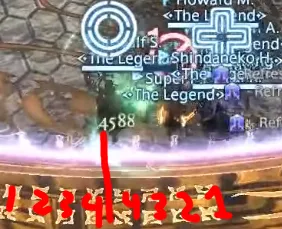
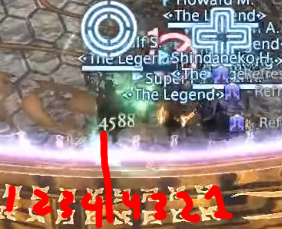
Update UWU images for Safari compatability

diff --git a/content/guides/uwu/_index.md b/content/guides/uwu/_index.md
@@ -332,7 +332,7 @@ it's worth.
 where you're running is safe before you sprint there, as if you double
 back you'll likely die to Radiant Plumes.*
 
-Ifrit will then land and begin casting **Hellfire, **following up immediately with a **Vulcan Burst**.
+Ifrit will then land and begin casting **Hellfire** following up immediately with a **Vulcan Burst**.
  Make sure this is shielded to avoid being knocked into the wall. Ifrit
 does not share an enmity table with Garuda, so your tanks need to grab
 enmity as soon as possible. Ifrit will then follow up with three **Incinerates**, which
@@ -1270,7 +1270,6 @@ Everyone else should be attacking the Gaol and dodging Feather Rain.*
 <div role="tablist" class="dots"></div>
 </div>
 
-
 After all of this is completed, have your whole party stacked in one
 position, as shown below, to bait Landslide. A random player will be
 marked with Flaming Crush, and another player will be tethered by
@@ -1279,6 +1278,40 @@ Mesohigh. Move together as a group to avoid Landslide (out and back in),
 the Mesohigh tether. Dodge a final feather rain and get ready for a Tank
  Purge, so have everyone stacked and shielded. After this phase is over,
  Ultima will teleport back to the middle.
+
+<div class="glider-contain" id="suppression-2">
+<div class="glider">
+<div>
+
+![Suppression 2-1](suppression-2-1.png)
+*You don't have to be stacked in this exact position. Be wary that Ultima
+Lasers are going out throughout all of this, so you might have to adjust your
+position.*
+
+</div>
+
+<div>
+
+![Suppression 2-2](suppression-2-2.png)
+*Have a pre-assigned (preferably a tank) player move out of the stack, while
+the rest of the party dodges back into the landslide after it goes off. The
+player taking the Mesohigh tether should attempt to dodge into a further
+Landslide.*
+
+</div>
+<div>
+
+![Suppression 2-3](suppression-2-3.png)
+*Heal up, dodge a Feather Rain, and prepare for Tank Purge and this phase is
+finished!*
+
+</div>
+
+</div>
+<button aria-label="Previous" class="glider-prev">«</button>
+<button aria-label="Next" class="glider-next">»</button>
+<div role="tablist" class="dots"></div>
+</div>
 
 ### Aetheric Boom
 
